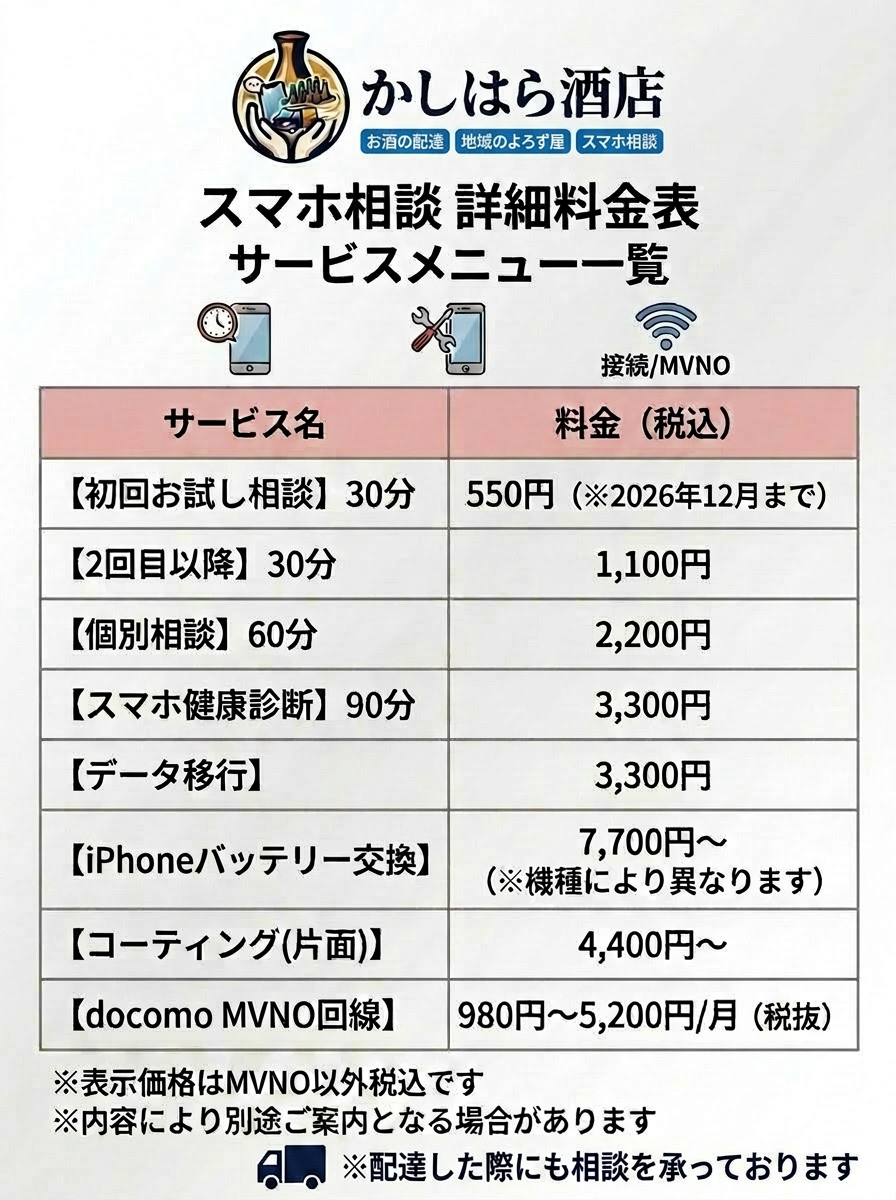
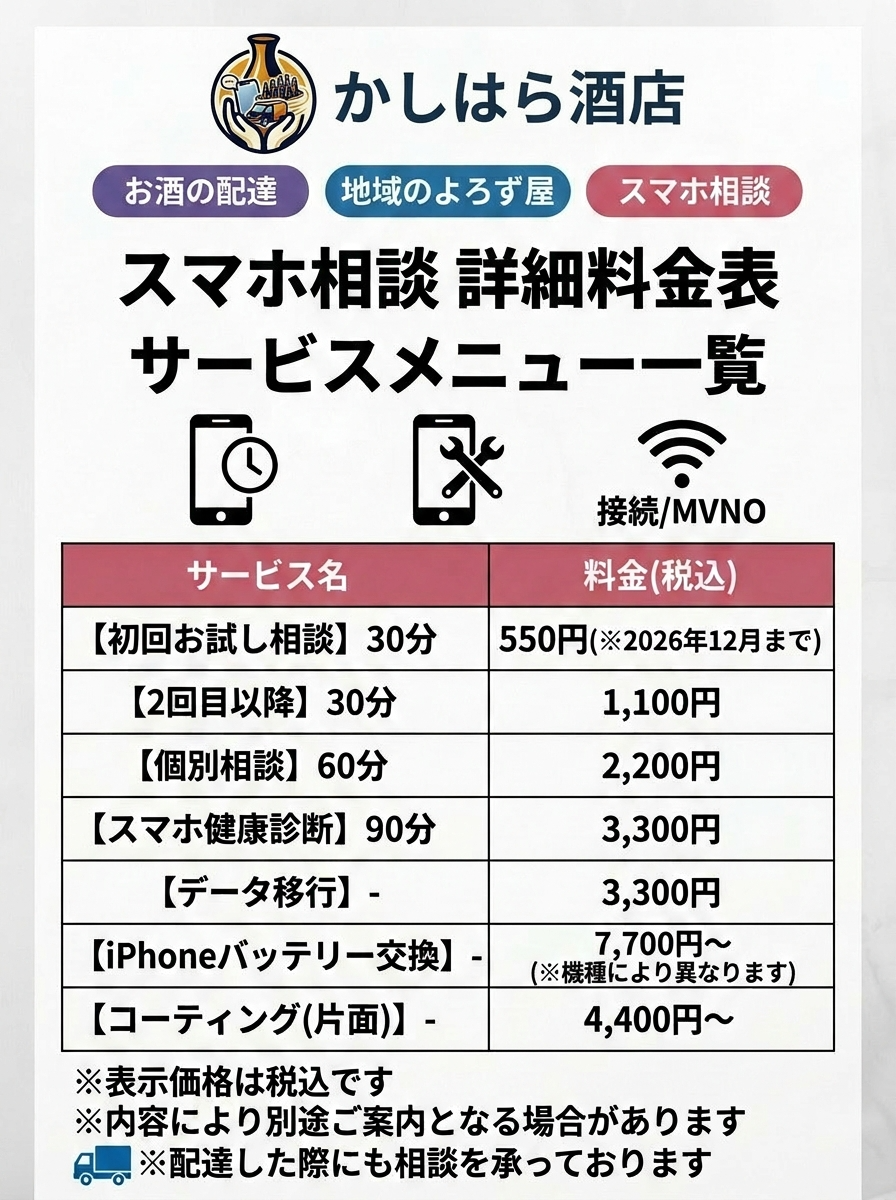
全ページのフッターにInstagramリンクを追加
- 全8ページのフッター店舗情報欄に「Instagram（@kashimarket2026）」リンクを追加
- 新規タブで開く・noopener設定済み

diff --git a/about.html b/about.html
@@ -546,9 +546,10 @@
         <p>🕐 11:00〜20:00（火曜定休）</p>
         <p>🚉 京阪本線御殿山駅 徒歩5分</p>
         <p>📍 <a href="https://www.google.com/maps/search/?api=1&query=%E3%81%8B%E3%81%97%E3%81%AF%E3%82%89%E9%85%92%E5%BA%97%20%E5%A4%A7%E9%98%AA%E5%BA%9C%E6%9E%9A%E6%96%B9%E5%B8%82%E6%B8%9A%E8%A5%BF1%E4%B8%81%E7%9B%AE21-12" target="_blank" rel="noopener" style="color:inherit;text-decoration:underline;">Googleマップで見る</a></p>
-      </div>
+      <p>📸 <a href="https://www.instagram.com/kashimarket2026/" target="_blank" rel="noopener" style="color:inherit;text-decoration:underline;">Instagram（@kashimarket2026）</a></p>
     </div>
-    <div class="footer-bottom">
+  </div>
+  <div class="footer-bottom">
       <p>&copy; 2025 Kashi Market合同会社 かしはら酒店. All rights reserved.</p>
     </div>
   </footer>

diff --git a/contact.html b/contact.html
@@ -427,9 +427,10 @@
         <p>🕐 11:00〜20:00（火曜定休）</p>
         <p>🚉 京阪本線御殿山駅 徒歩5分</p>
         <p>📍 <a href="https://www.google.com/maps/search/?api=1&query=%E3%81%8B%E3%81%97%E3%81%AF%E3%82%89%E9%85%92%E5%BA%97%20%E5%A4%A7%E9%98%AA%E5%BA%9C%E6%9E%9A%E6%96%B9%E5%B8%82%E6%B8%9A%E8%A5%BF1%E4%B8%81%E7%9B%AE21-12" target="_blank" rel="noopener" style="color:inherit;text-decoration:underline;">Googleマップで見る</a></p>
-      </div>
+      <p>📸 <a href="https://www.instagram.com/kashimarket2026/" target="_blank" rel="noopener" style="color:inherit;text-decoration:underline;">Instagram（@kashimarket2026）</a></p>
     </div>
-    <div class="footer-bottom">
+  </div>
+  <div class="footer-bottom">
       <p>&copy; 2025 Kashi Market合同会社 かしはら酒店. All rights reserved.</p>
     </div>
   </footer>

diff --git a/index.html b/index.html
@@ -977,9 +977,10 @@
         <p>🕐 11:00〜20:00（火曜定休）</p>
         <p>🚉 京阪本線御殿山駅 徒歩5分</p>
         <p>📍 <a href="https://www.google.com/maps/search/?api=1&query=%E3%81%8B%E3%81%97%E3%81%AF%E3%82%89%E9%85%92%E5%BA%97%20%E5%A4%A7%E9%98%AA%E5%BA%9C%E6%9E%9A%E6%96%B9%E5%B8%82%E6%B8%9A%E8%A5%BF1%E4%B8%81%E7%9B%AE21-12" target="_blank" rel="noopener" style="color:inherit;text-decoration:underline;">Googleマップで見る</a></p>
-      </div>
+      <p>📸 <a href="https://www.instagram.com/kashimarket2026/" target="_blank" rel="noopener" style="color:inherit;text-decoration:underline;">Instagram（@kashimarket2026）</a></p>
     </div>
-    <div class="footer-bottom">
+  </div>
+  <div class="footer-bottom">
       <p>&copy; 2025 Kashi Market合同会社 かしはら酒店. All rights reserved.</p>
     </div>
   </footer>

diff --git a/delivery.html b/delivery.html
@@ -188,6 +188,7 @@
       <p>🕐 11:00〜20:00（火曜定休）</p>
       <p>🚉 京阪本線御殿山駅 徒歩5分</p>
       <p>📍 <a href="https://www.google.com/maps/search/?api=1&query=%E3%81%8B%E3%81%97%E3%81%AF%E3%82%89%E9%85%92%E5%BA%97%20%E5%A4%A7%E9%98%AA%E5%BA%9C%E6%9E%9A%E6%96%B9%E5%B8%82%E6%B8%9A%E8%A5%BF1%E4%B8%81%E7%9B%AE21-12" target="_blank" rel="noopener" style="color:inherit;text-decoration:underline;">Googleマップで見る</a></p>
+      <p>📸 <a href="https://www.instagram.com/kashimarket2026/" target="_blank" rel="noopener" style="color:inherit;text-decoration:underline;">Instagram（@kashimarket2026）</a></p>
     </div>
   </div>
   <div class="footer-bottom">

diff --git a/news.html b/news.html
@@ -351,6 +351,7 @@
       <p>🕐 11:00〜20:00（火曜定休）</p>
       <p>🚉 京阪本線御殿山駅 徒歩5分</p>
       <p>📍 <a href="https://www.google.com/maps/search/?api=1&query=%E3%81%8B%E3%81%97%E3%81%AF%E3%82%89%E9%85%92%E5%BA%97%20%E5%A4%A7%E9%98%AA%E5%BA%9C%E6%9E%9A%E6%96%B9%E5%B8%82%E6%B8%9A%E8%A5%BF1%E4%B8%81%E7%9B%AE21-12" target="_blank" rel="noopener" style="color:inherit;text-decoration:underline;">Googleマップで見る</a></p>
+      <p>📸 <a href="https://www.instagram.com/kashimarket2026/" target="_blank" rel="noopener" style="color:inherit;text-decoration:underline;">Instagram（@kashimarket2026）</a></p>
     </div>
   </div>
   <div class="footer-bottom">

diff --git a/products.html b/products.html
@@ -755,6 +755,7 @@
       <p>🕐 11:00〜20:00（火曜定休）</p>
       <p>🚉 京阪本線御殿山駅 徒歩5分</p>
       <p>📍 <a href="https://www.google.com/maps/search/?api=1&query=%E3%81%8B%E3%81%97%E3%81%AF%E3%82%89%E9%85%92%E5%BA%97%20%E5%A4%A7%E9%98%AA%E5%BA%9C%E6%9E%9A%E6%96%B9%E5%B8%82%E6%B8%9A%E8%A5%BF1%E4%B8%81%E7%9B%AE21-12" target="_blank" rel="noopener" style="color:inherit;text-decoration:underline;">Googleマップで見る</a></p>
+      <p>📸 <a href="https://www.instagram.com/kashimarket2026/" target="_blank" rel="noopener" style="color:inherit;text-decoration:underline;">Instagram（@kashimarket2026）</a></p>
     </div>
   </div>
   <div class="footer-bottom">

diff --git a/smartphone.html b/smartphone.html
@@ -678,6 +678,7 @@
       <p>🕐 11:00〜20:00（火曜定休）</p>
       <p>🚉 京阪本線御殿山駅 徒歩5分</p>
       <p>📍 <a href="https://www.google.com/maps/search/?api=1&query=%E3%81%8B%E3%81%97%E3%81%AF%E3%82%89%E9%85%92%E5%BA%97%20%E5%A4%A7%E9%98%AA%E5%BA%9C%E6%9E%9A%E6%96%B9%E5%B8%82%E6%B8%9A%E8%A5%BF1%E4%B8%81%E7%9B%AE21-12" target="_blank" rel="noopener" style="color:inherit;text-decoration:underline;">Googleマップで見る</a></p>
+      <p>📸 <a href="https://www.instagram.com/kashimarket2026/" target="_blank" rel="noopener" style="color:inherit;text-decoration:underline;">Instagram（@kashimarket2026）</a></p>
     </div>
   </div>
   <div class="footer-bottom">

diff --git a/tokusho.html b/tokusho.html
@@ -322,6 +322,7 @@
       <p>🕐 11:00〜20:00（火曜定休）</p>
       <p>🚉 京阪本線御殿山駅 徒歩5分</p>
       <p>📍 <a href="https://www.google.com/maps/search/?api=1&query=%E3%81%8B%E3%81%97%E3%81%AF%E3%82%89%E9%85%92%E5%BA%97%20%E5%A4%A7%E9%98%AA%E5%BA%9C%E6%9E%9A%E6%96%B9%E5%B8%82%E6%B8%9A%E8%A5%BF1%E4%B8%81%E7%9B%AE21-12" target="_blank" rel="noopener" style="color:inherit;text-decoration:underline;">Googleマップで見る</a></p>
+      <p>📸 <a href="https://www.instagram.com/kashimarket2026/" target="_blank" rel="noopener" style="color:inherit;text-decoration:underline;">Instagram（@kashimarket2026）</a></p>
     </div>
   </div>
   <div class="footer-bottom">
